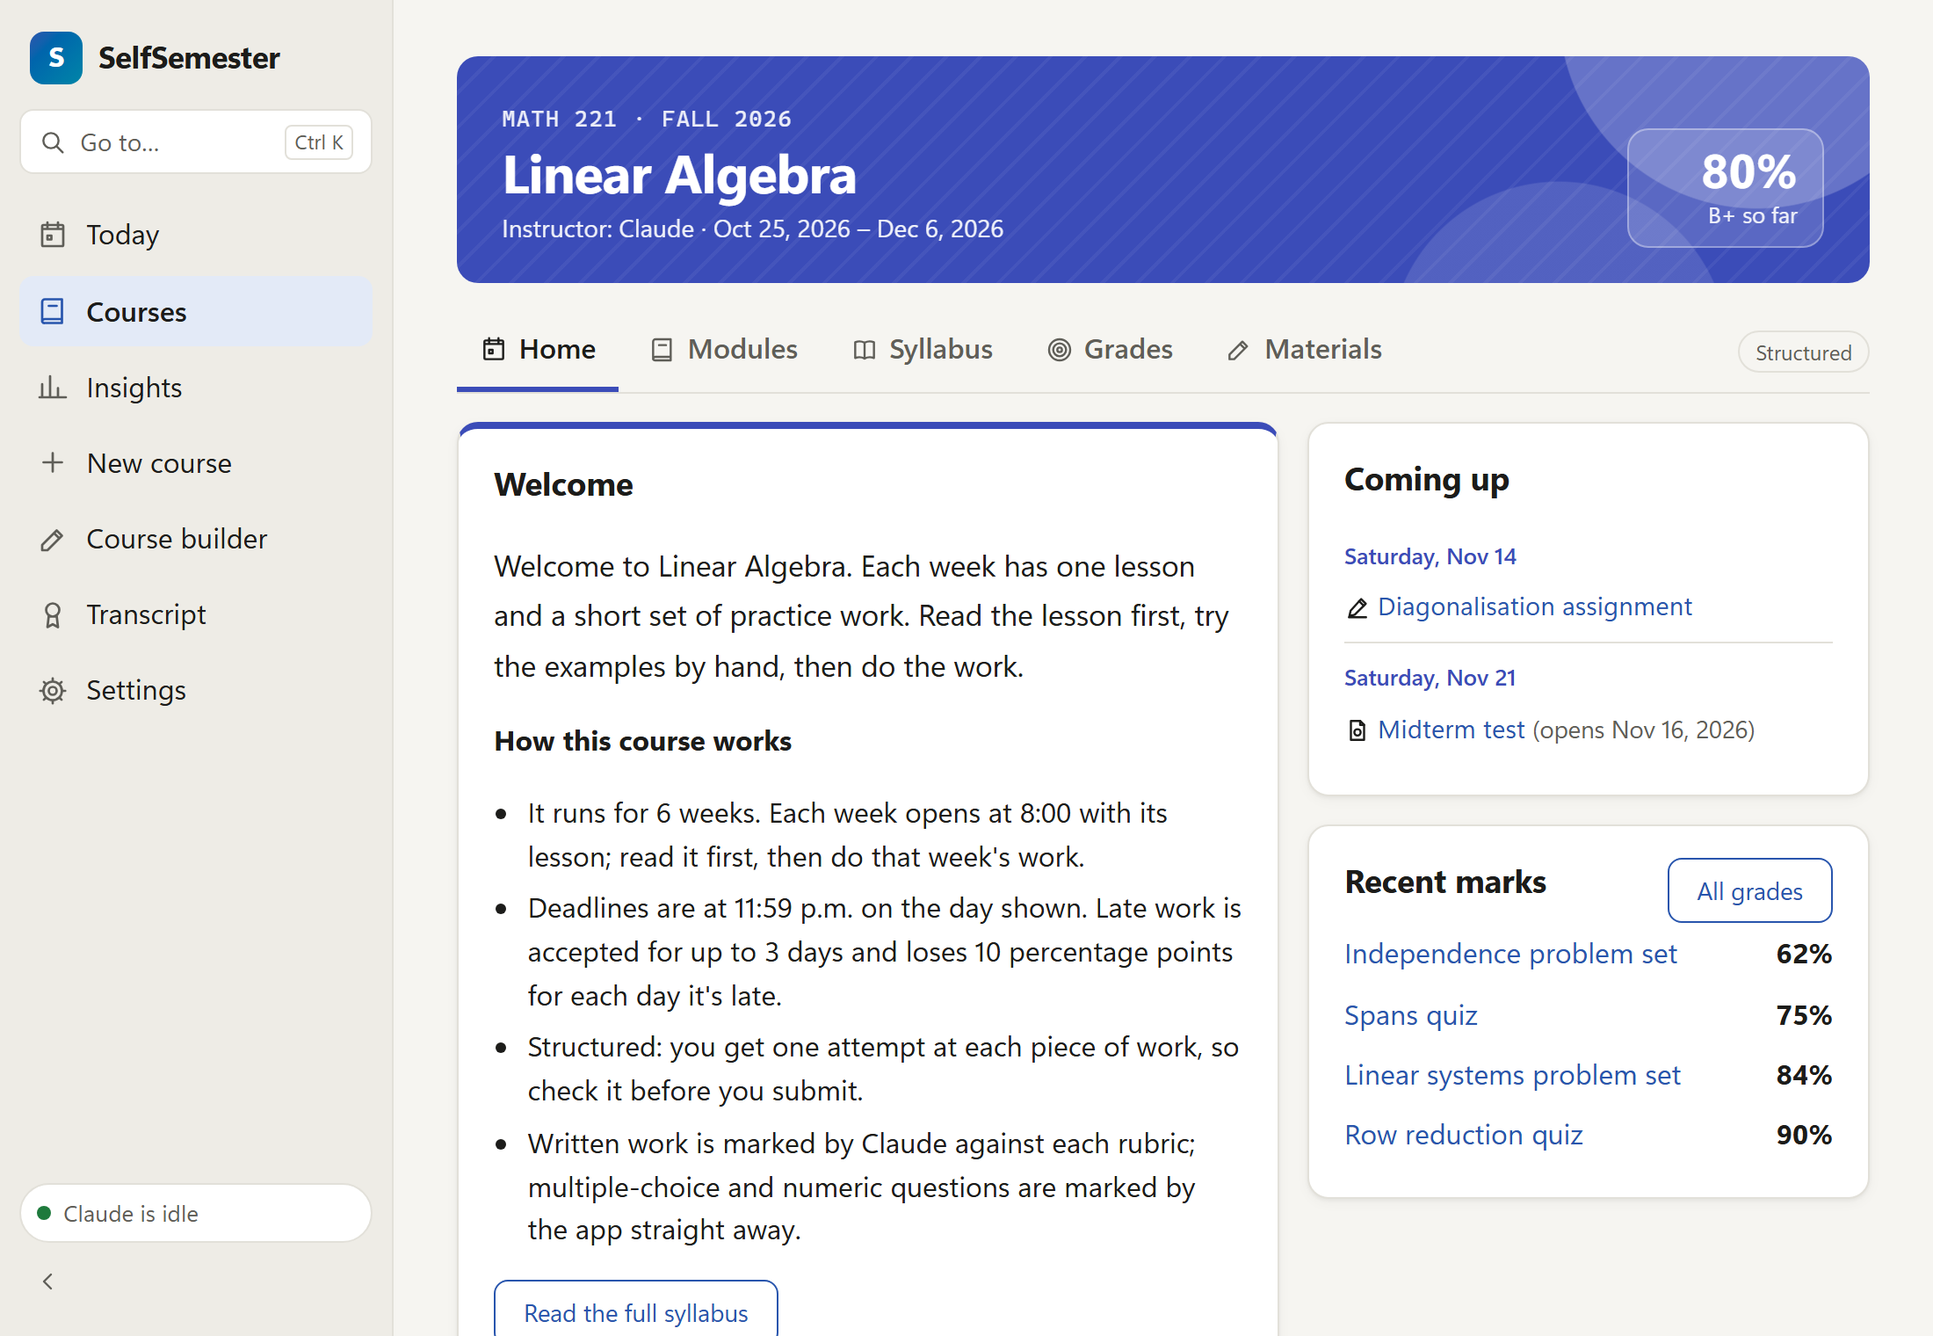
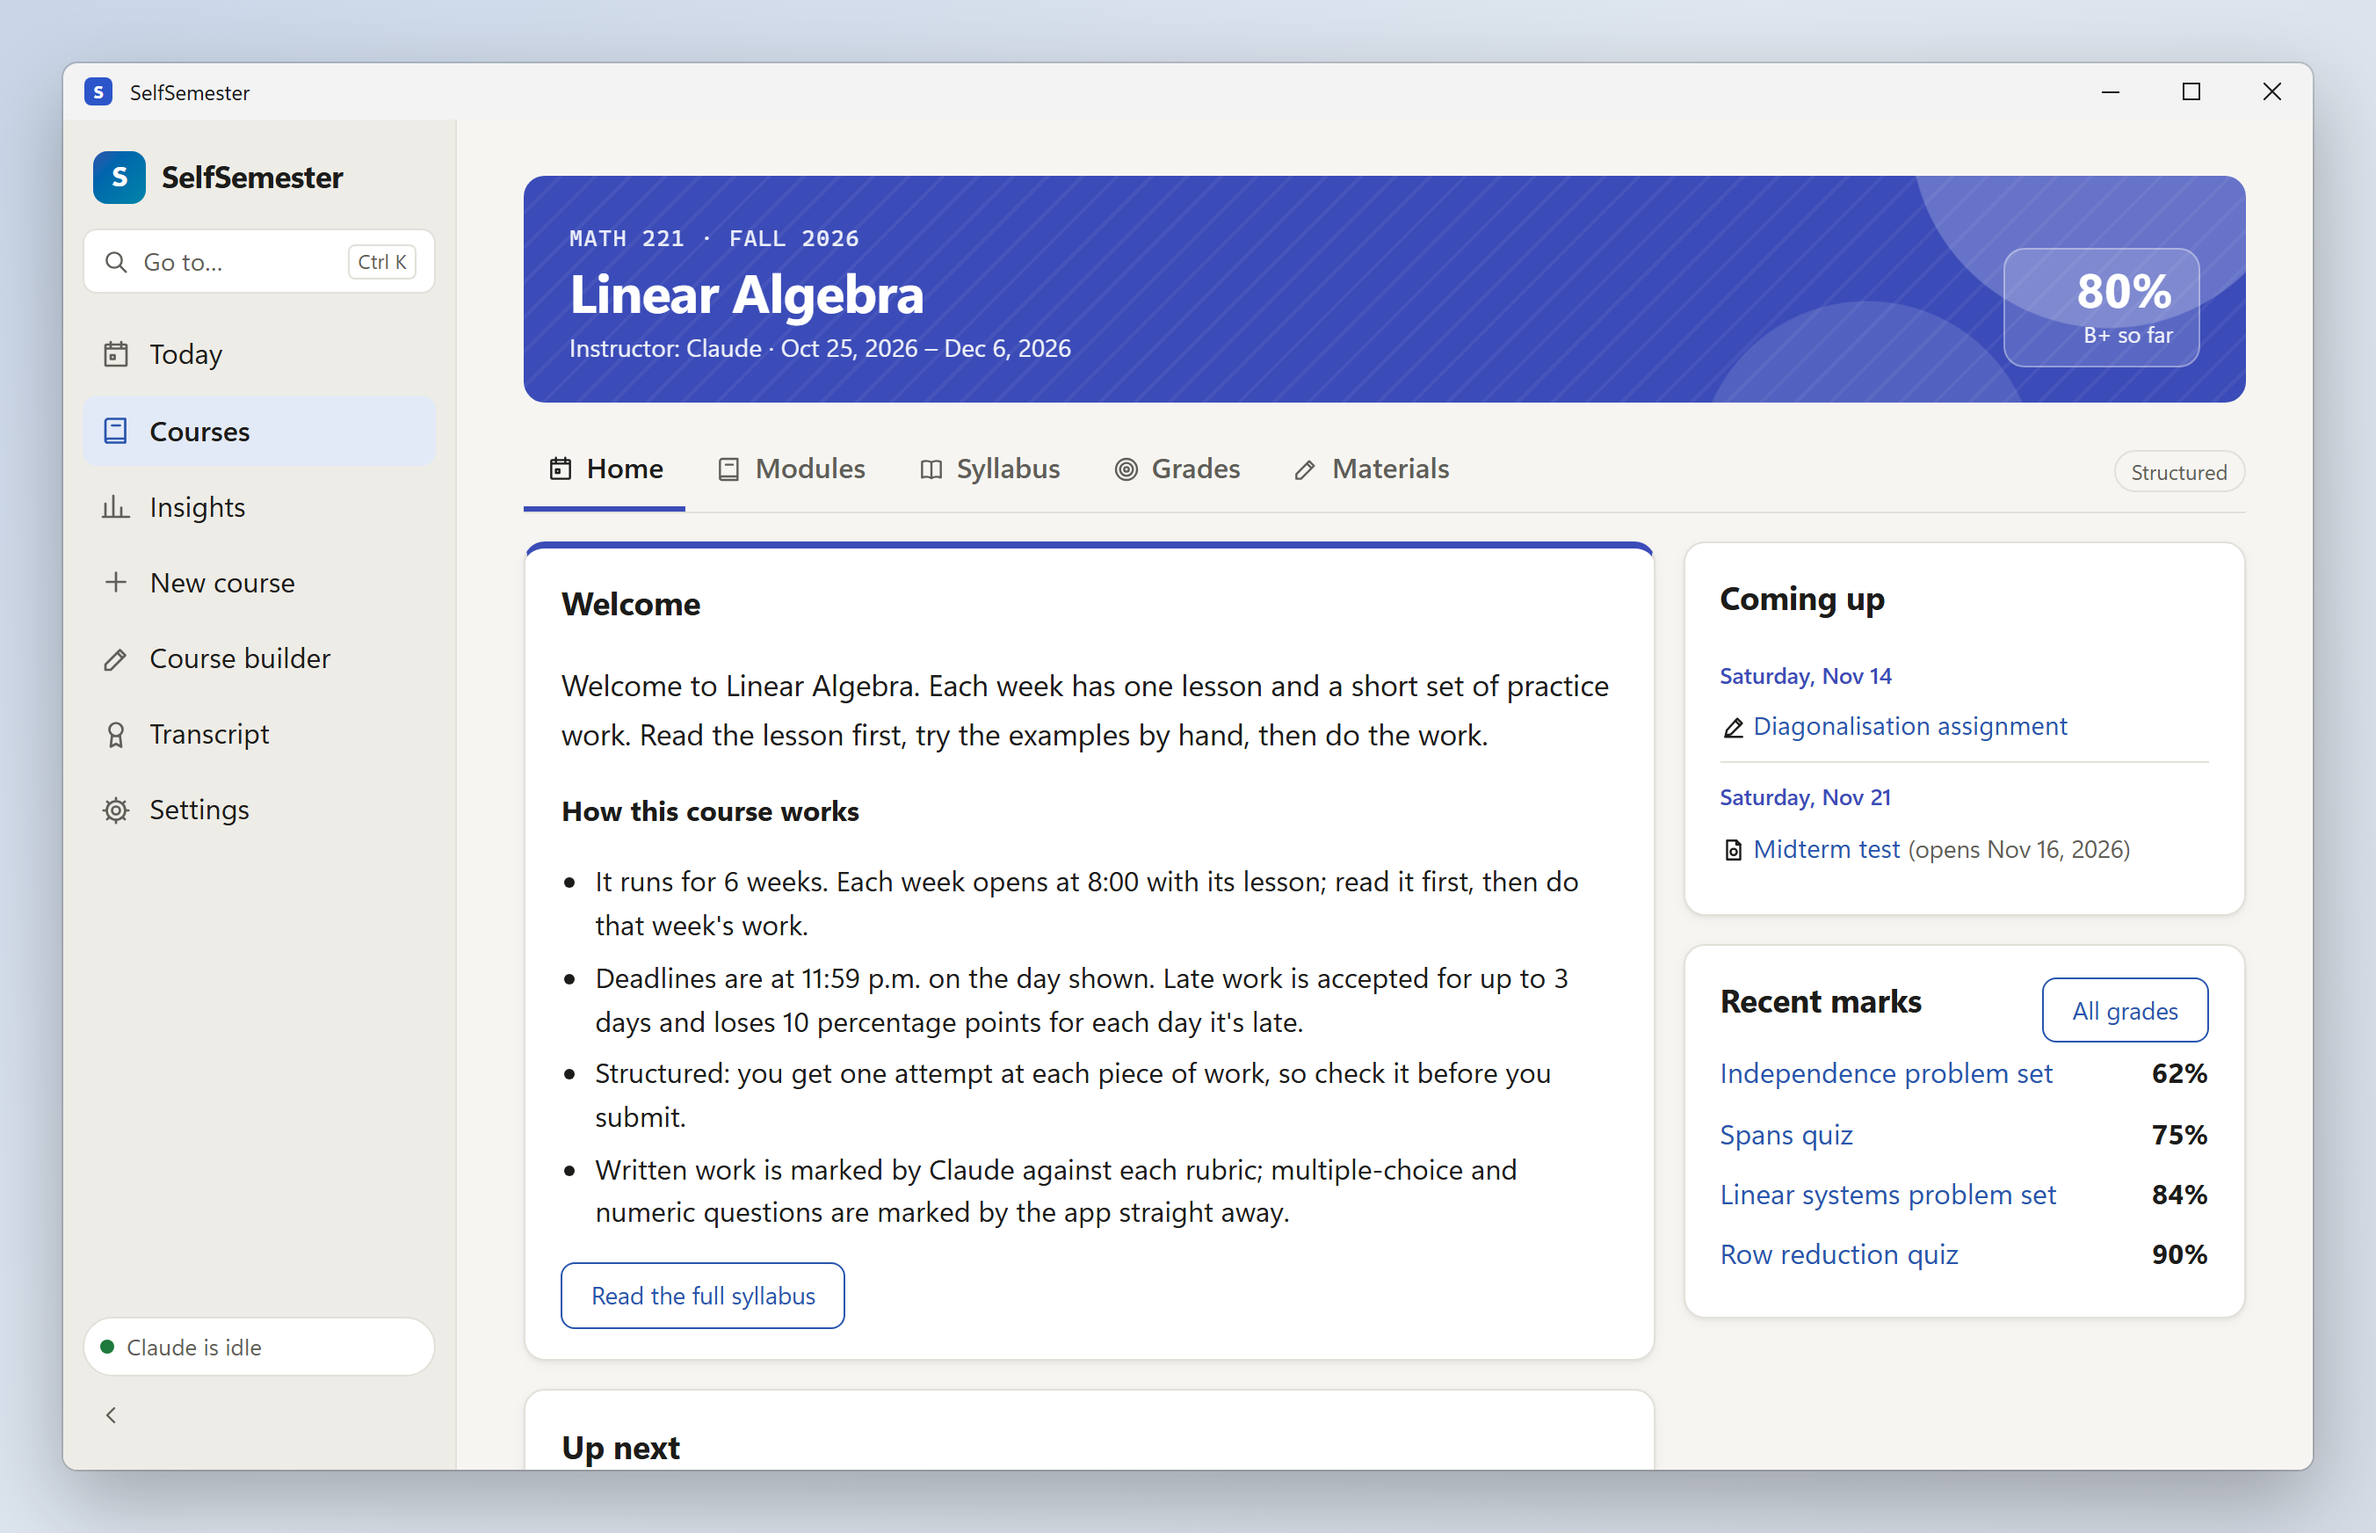
Panels rearrange as the window resizes; windowed screenshots
- New Auto page width (default): pages use the whole window, and the page is a
  size container, so Today, Insights, the course home, modules and the builder
  sit side by side or stack depending on the space they actually get.
- Sidebar shrinks to icons by itself under 980 px and animates between sizes.
- Lessons, work and forms stay at a reading width, centred in the window.
- Settings gets a side list of sections on wide windows.
- Multiple-choice options are compact cards in a grid; "1 point", "3 points";
  the marking guide uses question numbers.
- A lesson's own title heading is skipped when it matches the page title.
- Fixed: course page dark colours followed Windows, not the app's theme.
- README screenshots retaken in a 1280 x 800 window with its title bar, with
  complete demo content, plus small-window and wide-window shots.

diff --git a/src/routes/+layout.svelte b/src/routes/+layout.svelte
@@ -34,10 +34,15 @@
     { href: "/transcript", label: "Transcript", icon: "transcript" },
     { href: "/settings", label: "Settings", icon: "settings" },
   ];
-  const compact = $derived(prefs.sidebar === "compact");
+  // In a small window the sidebar shrinks to icons by itself, so the page keeps its room.
+  let windowWidth = $state(1200);
+  const autoCompact = $derived(windowWidth < 980);
+  const compact = $derived(prefs.sidebar === "compact" || autoCompact);
+  // Lessons, work and forms read best at a fixed width; the rest of the app fills the window.
+  const reading = $derived(/^\/(item\/|new$|build$)/.test(page.url.pathname));
 
   function toggleSidebar() {
-    prefs.sidebar = compact ? "full" : "compact";
+    prefs.sidebar = prefs.sidebar === "compact" ? "full" : "compact";
     save();
   }
 
@@ -120,6 +125,8 @@
   </div>
 {/if}
 
+<svelte:window bind:innerWidth={windowWidth} />
+
 <div class="shell" class:compact inert={noticeOk === false}>
   <aside>
     <div class="brand">
@@ -158,6 +165,7 @@
           <span class="muted" class:sr={compact}>Claude is idle</span>
         </span>
       {/if}
+      {#if !autoCompact}
       <button
         class="ghost collapse"
         onclick={toggleSidebar}
@@ -166,9 +174,10 @@
       >
         <Icon name={compact ? "expand" : "collapse"} size={16} />
       </button>
+      {/if}
     </div>
   </aside>
-  <main>
+  <main class:reading>
     {#if restored}
       <p class="note">Your data was missing when SelfSemester started, so it restored your newest backup (from {when(restored)}). <a href="/settings">Settings</a> <button class="ghost small" onclick={() => (restored = null)}>OK</button></p>
     {/if}
@@ -222,11 +231,12 @@
   }
   .shell {
     display: grid;
-    grid-template-columns: 14rem 1fr;
+    grid-template-columns: 14rem minmax(0, 1fr);
     min-height: 100vh;
+    transition: grid-template-columns var(--slow) var(--ease);
   }
   .shell.compact {
-    grid-template-columns: 4.25rem 1fr;
+    grid-template-columns: 4.25rem minmax(0, 1fr);
   }
   aside {
     background: var(--sidebar);
@@ -374,10 +384,17 @@
   .compact .collapse {
     align-self: center;
   }
+  /* The page is a size container, so panels inside rearrange to the space they actually get (with or without the
+     sidebar) rather than to the whole window. */
   main {
-    padding: 2rem 2.25rem 4rem;
-    max-width: 60rem;
+    container: page / inline-size;
+    padding: 2rem clamp(1rem, 3vw, 2.5rem) 4rem;
+    max-width: 96rem;
     width: 100%;
+    min-width: 0;
+  }
+  :global([data-width="normal"]) main {
+    max-width: 60rem;
   }
   :global([data-width="wide"]) main {
     max-width: 78rem;
@@ -385,10 +402,15 @@
   :global([data-width="full"]) main {
     max-width: none;
   }
-  @media (max-width: 760px) {
+  /* Reading pages sit in the middle of the window, so a wide window doesn't leave all the space on one side. */
+  main.reading {
+    max-width: 64rem;
+    margin-inline: auto;
+  }
+  @media (max-width: 640px) {
     .shell,
     .shell.compact {
-      grid-template-columns: 1fr;
+      grid-template-columns: minmax(0, 1fr);
     }
     aside {
       position: static;

diff --git a/src/routes/item/[id]/+page.svelte b/src/routes/item/[id]/+page.svelte
@@ -131,6 +131,13 @@
 
   const markingState = $derived(v?.marking_status?.split("|") ?? []);
 
+  // Lessons usually open with their own title; the page header already shows it, so skip a matching first heading.
+  const lessonBody = $derived.by(() => {
+    const text = v?.lesson ?? "";
+    const m = text.match(/^\s*#\s+(.+)\r?\n/);
+    return m && m[1].trim().toLowerCase() === v?.item.title.trim().toLowerCase() ? text.slice(m[0].length) : text;
+  });
+
   // About 200 words a minute, the usual figure for reading to learn rather than skimming.
   const readMinutes = $derived(v?.lesson ? Math.max(1, Math.round(v.lesson.split(/\s+/).length / 200)) : 0);
 
@@ -208,7 +215,7 @@
     <div class="read-progress" class:in-focus={focus} style="transform: scaleX({readShare})" aria-hidden="true"></div>
     <div class="reader" class:focus bind:this={reader}>
       {#if focus}<button class="ghost exit" onclick={() => (focus = false)}>Exit reading mode</button>{/if}
-      <article class="prose">{@html render(v.lesson)}</article>
+      <article class="prose">{@html render(lessonBody)}</article>
       <div class="row end">
         {#if v.item.state === "open"}
           <button onclick={markRead}>I've finished this lesson</button>
@@ -227,7 +234,7 @@
         <ol class="questions">
           {#each content.questions as q (q.id)}
             <li>
-              <div class="spread"><div class="prose">{@html render(q.prompt)}</div><span class="muted small">{q.points} pts</span></div>
+              <div class="spread"><div class="prose">{@html render(q.prompt)}</div><span class="muted small nowrap">{q.points} {q.points === 1 ? "point" : "points"}</span></div>
               {#if answering && (q.type === "mcq" || q.type === "numeric")}
                 {#if q.type === "mcq"}
                   <div class="options">
@@ -254,7 +261,7 @@
       {#if content.rubric.length}
         <details>
           <summary>How this is marked</summary>
-          <ul class="small">{#each content.rubric as r}<li><strong>{r.criterion}</strong> ({r.points} pts) {r.description}</li>{/each}</ul>
+          <ul class="small">{#each content.rubric as r}<li><strong>{questionLabel(r.criterion)}</strong> ({r.points} {r.points === 1 ? "point" : "points"}) {r.description}</li>{/each}</ul>
         </details>
       {/if}
     </section>
@@ -729,10 +736,15 @@
   .questions li {
     margin: 1rem 0;
   }
+  /* Short options sit side by side; long ones take a full row. */
   .options {
-    display: flex;
-    flex-direction: column;
-    gap: 0.3rem;
+    display: grid;
+    grid-template-columns: repeat(auto-fill, minmax(min(100%, 13rem), 1fr));
+    gap: 0.4rem;
+    margin-top: 0.4rem;
+  }
+  .radio :global(p) {
+    margin: 0;
   }
   .radio {
     font-weight: 400;

diff --git a/src/lib/Classroom.svelte b/src/lib/Classroom.svelte
@@ -209,6 +209,7 @@
 
   <!-- ===== Modules ===== -->
   {:else if tab === "modules"}
+    <div class="modules">
     {#each c.units as u (u.key)}
       {@const objectives = c.meta.objectives?.[u.key] ?? []}
       {@const topics = c.plan?.units.find((p) => p.key === u.key)?.topics ?? []}
@@ -245,6 +246,7 @@
         </ul>
       </section>
     {/each}
+    </div>
 
   <!-- ===== Syllabus ===== -->
   {:else if tab === "syllabus"}
@@ -478,10 +480,20 @@
     gap: 1rem;
     align-items: start;
   }
-  @media (max-width: 860px) {
+  @container page (max-width: 50rem) {
     .home {
-      grid-template-columns: 1fr;
+      grid-template-columns: minmax(0, 1fr);
     }
+  }
+  /* Weeks sit two across in a wide window. */
+  .modules {
+    display: grid;
+    grid-template-columns: repeat(auto-fill, minmax(min(100%, 30rem), 1fr));
+    gap: var(--space);
+    align-items: start;
+  }
+  .modules > :global(.card) {
+    margin: 0;
   }
   .main-col > :global(.card),
   .side-col > :global(.card) {
@@ -670,14 +682,13 @@
     margin: 0.2rem 0 0;
     padding-left: 1.2rem;
   }
-  @media (prefers-color-scheme: dark) {
-    .objectives {
-      background: color-mix(in srgb, var(--course) 18%, transparent);
-    }
-    .icon-box {
-      background: color-mix(in srgb, var(--course) 22%, transparent);
-      color: color-mix(in srgb, var(--course) 40%, white);
-    }
+  /* Follows the app's own light/dark choice, not the system's. */
+  :global([data-scheme="dark"]) .objectives {
+    background: color-mix(in srgb, var(--course) 18%, transparent);
+  }
+  :global([data-scheme="dark"]) .icon-box {
+    background: color-mix(in srgb, var(--course) 22%, transparent);
+    color: color-mix(in srgb, var(--course) 40%, white);
   }
   .module-items {
     list-style: none;

diff --git a/src/lib/DisplaySettings.svelte b/src/lib/DisplaySettings.svelte
@@ -116,12 +116,12 @@
 <section class="card" id="layout">
   <h2><Icon name="courses" size={18} /> Layout</h2>
   <div class="setting">
-    <div class="name">Sidebar<span class="hint">Compact shows icons only. Also the arrow at the bottom of the sidebar.</span></div>
+    <div class="name">Sidebar<span class="hint">Compact shows icons only. It also switches to icons by itself in a small window.</span></div>
     {@render seg("sidebar", [{ value: "full", label: "Full" }, { value: "compact", label: "Compact" }], "Sidebar")}
   </div>
   <div class="setting">
-    <div class="name">Page width<span class="hint">Wide and full suit big monitors.</span></div>
-    {@render seg("width", [{ value: "normal", label: "Normal" }, { value: "wide", label: "Wide" }, { value: "full", label: "Full" }], "Page width")}
+    <div class="name">Page width<span class="hint">Auto fills the window and rearranges panels as you resize it.</span></div>
+    {@render seg("width", [{ value: "auto", label: "Auto" }, { value: "normal", label: "Narrow" }, { value: "wide", label: "Wide" }, { value: "full", label: "Full" }], "Page width")}
   </div>
   <div class="setting">
     <div class="name">Open on<span class="hint">The page SelfSemester starts on.</span></div>

diff --git a/src/routes/settings/+page.svelte b/src/routes/settings/+page.svelte
@@ -81,10 +81,12 @@
 <h1>Settings</h1>
 <p class="lead">How SelfSemester looks and runs, how it reaches Claude, and where it keeps your files.</p>
 
+<div class="settings-grid">
 <nav class="jump" aria-label="Settings sections">
   {#each sections as s}<a href="#{s.id}">{s.label}</a>{/each}
 </nav>
 
+<div class="settings-body">
 <PatchNotes />
 
 <DisplaySettings />
@@ -191,8 +193,31 @@
   </section>
 {/if}
 </div>
+</div>
+</div>
 
 <style>
+  .settings-grid {
+    display: grid;
+    grid-template-columns: minmax(0, 1fr);
+    gap: 0 1.5rem;
+    align-items: start;
+  }
+  /* A wide window gets the section list as a column on the left. */
+  @container page (min-width: 60rem) {
+    .settings-grid {
+      grid-template-columns: 12rem minmax(0, 54rem);
+    }
+    .jump {
+      flex-direction: column;
+      top: 1rem;
+      border-bottom: 0;
+      background: transparent;
+    }
+    .jump a {
+      border-radius: var(--radius-sm);
+    }
+  }
   .jump {
     position: sticky;
     top: 0;

diff --git a/src/routes/insights/+page.svelte b/src/routes/insights/+page.svelte
@@ -127,6 +127,7 @@
       </div>
     </section>
 
+    <div class="two" class:single={!notes.length}>
     {#if notes.length}
       <section class="card notes">
         <h2><Icon name="sparkle" size={16} /> What stands out</h2>
@@ -143,6 +144,7 @@
       </div>
       <Heatmap {grid} weekStart={prefs.weekStart} />
     </section>
+    </div>
 
     <div class="two">
       <section class="card">
@@ -278,10 +280,15 @@
     color: var(--accent);
     flex: none;
   }
+  /* Pairs of panels sit side by side when there's room and stack when the window is narrow. */
   .two {
     display: grid;
-    grid-template-columns: repeat(auto-fit, minmax(19rem, 1fr));
+    grid-template-columns: repeat(auto-fit, minmax(min(100%, 24rem), 1fr));
     gap: var(--space);
+    align-items: start;
+  }
+  .two.single {
+    grid-template-columns: minmax(0, 1fr);
   }
   .two > .card {
     margin-bottom: var(--space);

diff --git a/src/routes/+page.svelte b/src/routes/+page.svelte
@@ -78,6 +78,7 @@
 
 {#if error}<p class="note bad">{error}</p>{/if}
 
+<div class="board">
 {#if needsYou.length}
   <section class="card">
     <h2>Needs you</h2>
@@ -159,8 +160,19 @@
     </section>
   {/if}
 {/if}
+</div>
 
 <style>
+  /* Sections tile into as many columns as fit, and stack in a narrow window. */
+  .board {
+    display: grid;
+    grid-template-columns: repeat(auto-fill, minmax(min(100%, 26rem), 1fr));
+    gap: var(--space);
+    align-items: start;
+  }
+  .board > :global(.card) {
+    margin: 0;
+  }
   .hero {
     position: relative;
     display: flex;

diff --git a/src/lib/prefs.svelte.ts b/src/lib/prefs.svelte.ts
@@ -18,7 +18,7 @@ export type Prefs = {
   textScale: number;
   density: "compact" | "comfortable" | "spacious";
   corners: "sharp" | "rounded" | "round";
-  width: "normal" | "wide" | "full";
+  width: "auto" | "normal" | "wide" | "full";
   sidebar: "full" | "compact";
   startPage: "/" | "/courses" | "/insights";
   effects: Effects;
@@ -39,7 +39,7 @@ export const defaults: Prefs = {
   textScale: 100,
   density: "comfortable",
   corners: "rounded",
-  width: "normal",
+  width: "auto",
   sidebar: "full",
   startPage: "/",
   effects: "balanced",

diff --git a/static/theme-boot.js b/static/theme-boot.js
@@ -17,7 +17,7 @@
   root.dataset.theme = dark ? "dark-" + (p.darkTheme || "classic") : "light-" + (p.lightTheme || "classic");
   root.dataset.density = p.density || "comfortable";
   root.dataset.corners = p.corners || "rounded";
-  root.dataset.width = p.width || "normal";
+  root.dataset.width = p.width || "auto";
   root.dataset.effects = p.effects || "balanced";
   root.dataset.motion = reduced ? "reduced" : "full";
   if (hues[p.accent]) root.style.setProperty("--hue", String(hues[p.accent]));

diff --git a/src/lib/patchNotes.ts b/src/lib/patchNotes.ts
@@ -17,6 +17,7 @@ export const patchNotes: PatchNote[] = [
       "Ctrl+K to jump to any page or course.",
       "Clearer results: a score ring, a bar per rubric line and a revise checklist.",
       "Course pages, lessons, reviews and the transcript in the new style.",
+      "Panels rearrange as you resize the window, and the sidebar shrinks to icons when it's small.",
     ],
   },
   {

diff --git a/src/routes/build/[id]/+page.svelte b/src/routes/build/[id]/+page.svelte
@@ -580,9 +580,9 @@
     gap: 1.25rem;
     align-items: start;
   }
-  @media (max-width: 900px) {
+  @container page (max-width: 54rem) {
     .layout {
-      grid-template-columns: 1fr;
+      grid-template-columns: minmax(0, 1fr);
     }
     .outline {
       position: static !important;

diff --git a/src/lib/CourseBanner.svelte b/src/lib/CourseBanner.svelte
@@ -53,7 +53,7 @@
     border-radius: var(--radius) var(--radius) 0 0;
     min-height: 6.2rem;
   }
-  @media (max-width: 640px) {
+  @container page (max-width: 36rem) {
     .banner {
       flex-wrap: wrap;
     }
